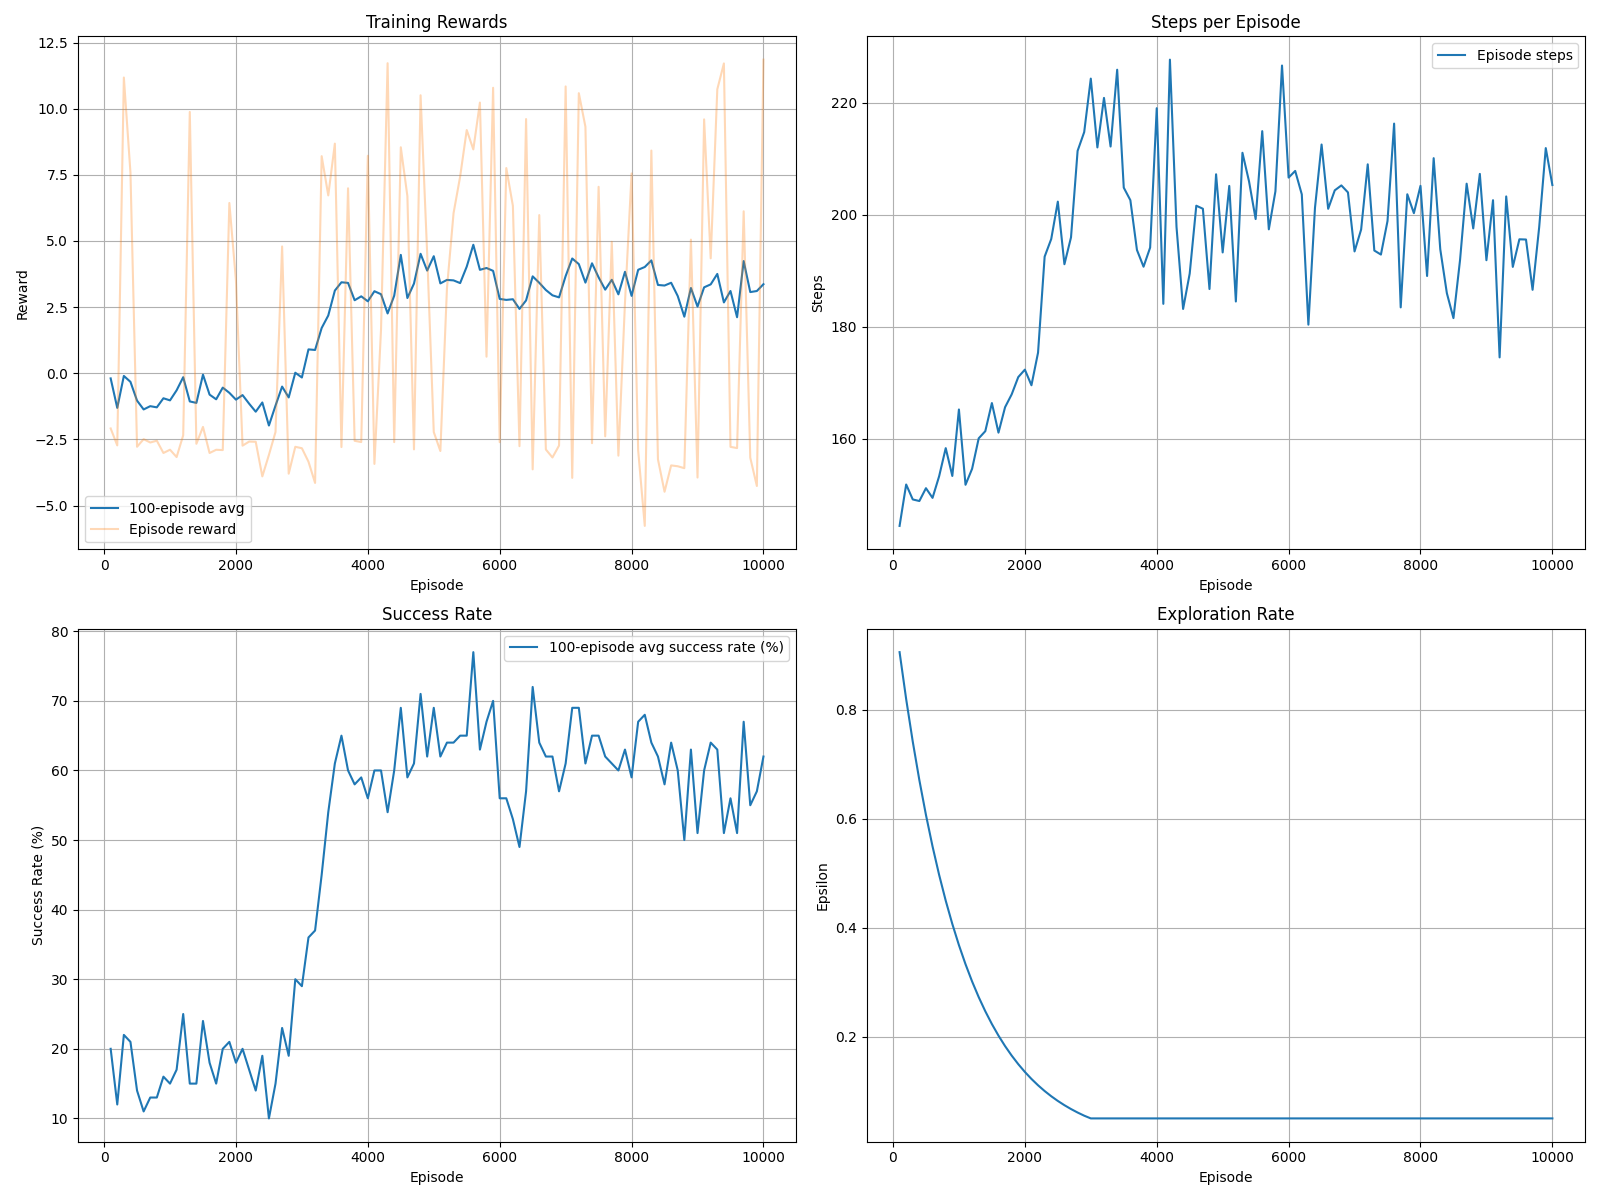
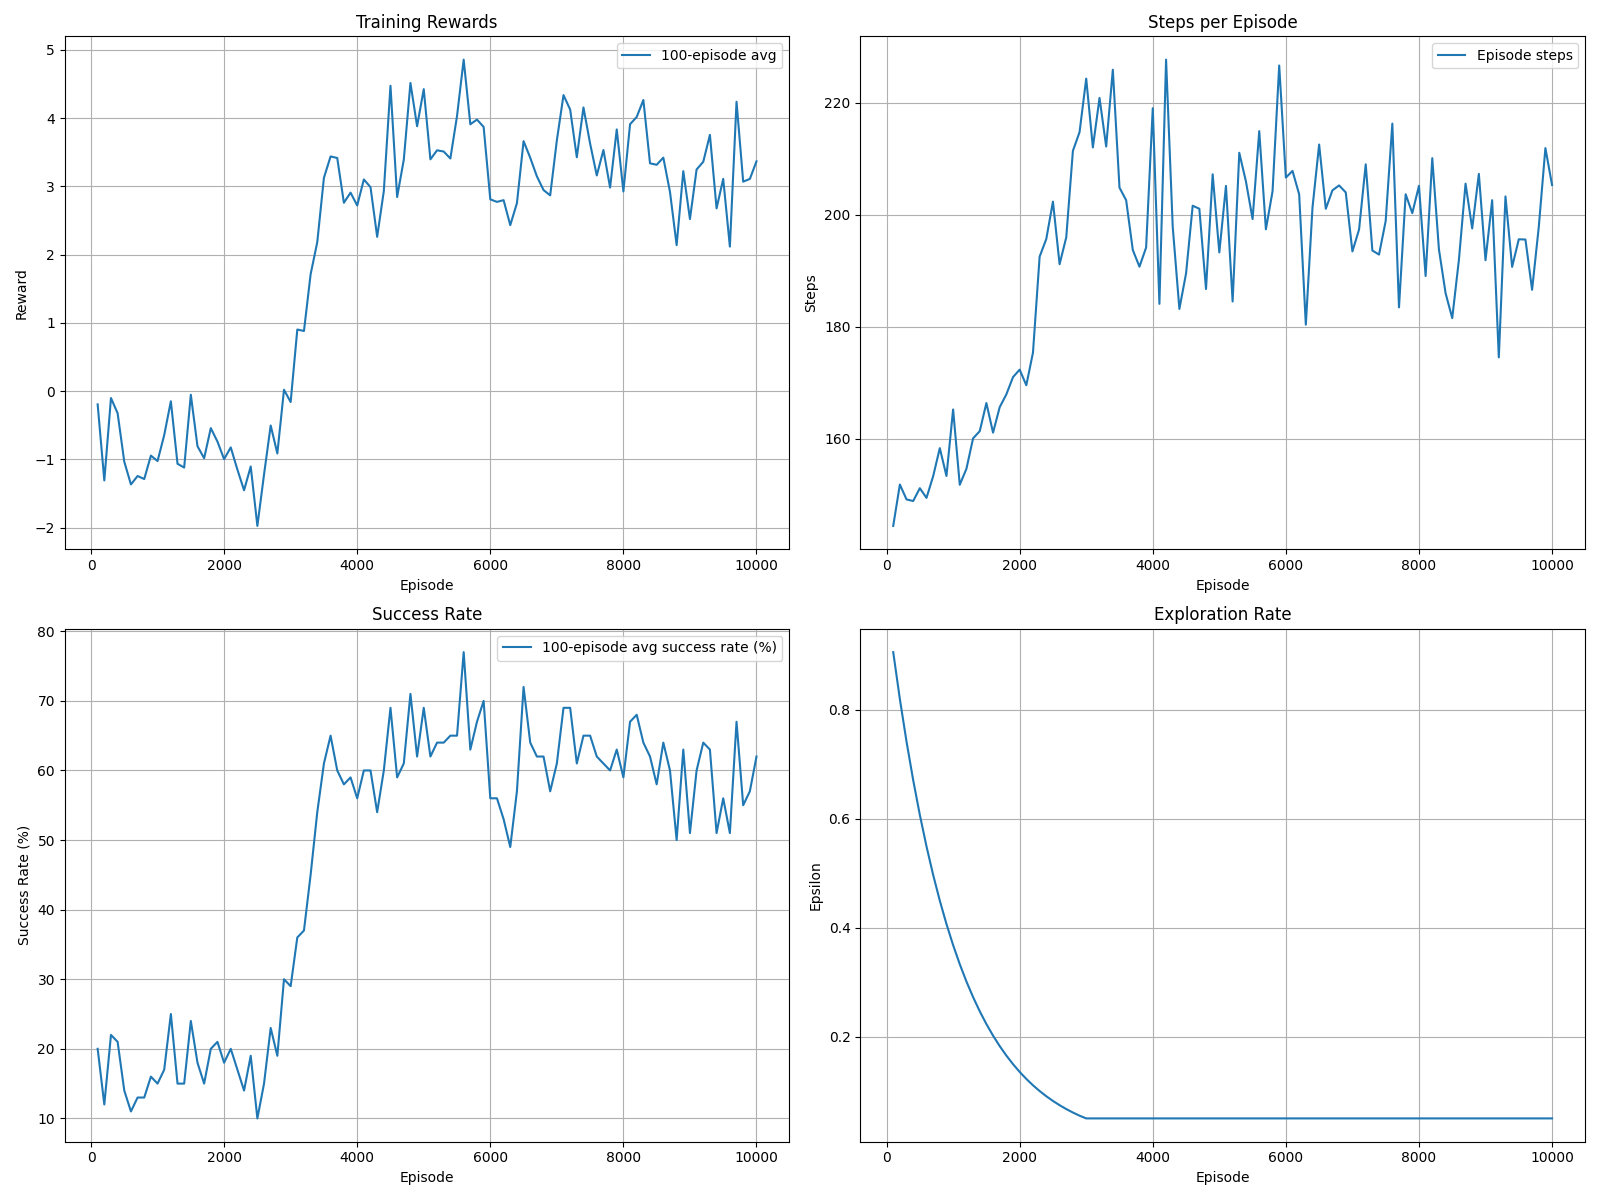
default state

diff --git a/make_plot.py b/make_plot.py
@@ -1,0 +1,79 @@
+import pandas as pd
+import matplotlib.pyplot as plt
+import os
+
+def create_comparison_plots(df1, df2, label1="Standard", label2="Modified", output_dir="plots"):
+    """Create 4 separate comparison plots for two datasets"""
+    
+    # Create output directory if it doesn't exist
+    os.makedirs(output_dir, exist_ok=True)
+    
+    # Set consistent style for all plots (updated style name)
+    plt.style.use('seaborn-v0_8')  # Modern equivalent of 'seaborn'
+    comparison_colors = ['#1f77b4', '#ff7f0e']  # Blue and orange
+    
+    # 1. Reward Comparison Plot
+    plt.figure(figsize=(10, 6))
+    plt.plot(df1['episode'], df1['avg100'], label=f'{label1} (100-ep avg)', color=comparison_colors[0], linewidth=2)
+    plt.plot(df2['episode'], df2['avg100'], label=f'{label2} (100-ep avg)', color=comparison_colors[1], linewidth=2)
+    plt.xlabel('Episode', fontsize=12)
+    plt.ylabel('Reward', fontsize=12)
+    plt.title('Reward Comparison', fontsize=14, pad=20)
+    plt.legend(fontsize=10)
+    plt.grid(True, alpha=0.3)
+    plt.tight_layout()
+    plt.savefig(f'{output_dir}/reward_comparison.png', dpi=300, bbox_inches='tight')
+    plt.close()
+    
+    # 2. Steps Comparison Plot
+    plt.figure(figsize=(10, 6))
+    plt.plot(df1['episode'], df1['steps'], label=label1, color=comparison_colors[0], alpha=0.7)
+    plt.plot(df2['episode'], df2['steps'], label=label2, color=comparison_colors[1], alpha=0.7)
+    plt.xlabel('Episode', fontsize=12)
+    plt.ylabel('Steps', fontsize=12)
+    plt.title('Episode Length Comparison', fontsize=14, pad=20)
+    plt.legend(fontsize=10)
+    plt.grid(True, alpha=0.3)
+    plt.tight_layout()
+    plt.savefig(f'{output_dir}/steps_comparison.png', dpi=300, bbox_inches='tight')
+    plt.close()
+    
+    # 3. Success Rate Comparison Plot (if available)
+    if 'avg100success' in df1.columns and 'avg100success' in df2.columns:
+        plt.figure(figsize=(10, 6))
+        plt.plot(df1['episode'], df1['avg100success'], label=f'{label1} (100-ep avg)', 
+                color=comparison_colors[0], linewidth=2)
+        plt.plot(df2['episode'], df2['avg100success'], label=f'{label2} (100-ep avg)', 
+                color=comparison_colors[1], linewidth=2)
+        plt.xlabel('Episode', fontsize=12)
+        plt.ylabel('Success Rate (%)', fontsize=12)
+        plt.title('Success Rate Comparison', fontsize=14, pad=20)
+        plt.legend(fontsize=10)
+        plt.grid(True, alpha=0.3)
+        plt.tight_layout()
+        plt.savefig(f'{output_dir}/success_rate_comparison.png', dpi=300, bbox_inches='tight')
+        plt.close()
+    
+    # 4. Epsilon Comparison Plot
+    plt.figure(figsize=(10, 6))
+    plt.plot(df1['episode'], df1['epsilon'], label=label1, color=comparison_colors[0])
+    plt.plot(df2['episode'], df2['epsilon'], label=label2, color=comparison_colors[1])
+    plt.xlabel('Episode', fontsize=12)
+    plt.ylabel('Epsilon', fontsize=12)
+    plt.title('Exploration Rate Comparison', fontsize=14, pad=20)
+    plt.legend(fontsize=10)
+    plt.grid(True, alpha=0.3)
+    plt.tight_layout()
+    plt.savefig(f'{output_dir}/epsilon_comparison.png', dpi=300, bbox_inches='tight')
+    plt.close()
+
+# Example usage:
+if __name__ == "__main__":
+    # Load your CSV files
+    df_modified = pd.read_csv('training_stats_dqn_jump.csv')
+    df_standard = pd.read_csv('training_stats_dqn_vanilla.csv')
+    
+    # Generate comparison plots
+    create_comparison_plots(df_standard, df_modified, 
+                          label1="Standard Replay", 
+                          label2="Modified Replay")

diff --git a/dqn.py b/dqn.py
@@ -122,7 +122,7 @@ class DQNAgent:
                 experiences = self.memory.sample()
                 self.learn(experiences, self.gamma)
                 self.soft_update(self.qnetwork_local, self.qnetwork_target, self.tau)
-
+    
     def act(self, state, eps):
         state = torch.from_numpy( np.array(state, dtype=np.float32)).float().unsqueeze(0).to(self.device)
         self.qnetwork_local.eval()

diff --git a/plot.py b/plot.py
@@ -8,7 +8,6 @@ def plot_training_progress(df, filename):
     # Reward plot
     plt.subplot(2, 2, 1)
     plt.plot(df['episode'], df['avg100'], label='100-episode avg')
-    plt.plot(df['episode'], df['reward'], alpha=0.3, label='Episode reward')
     plt.xlabel('Episode')
     plt.ylabel('Reward')
     plt.title('Training Rewards')
